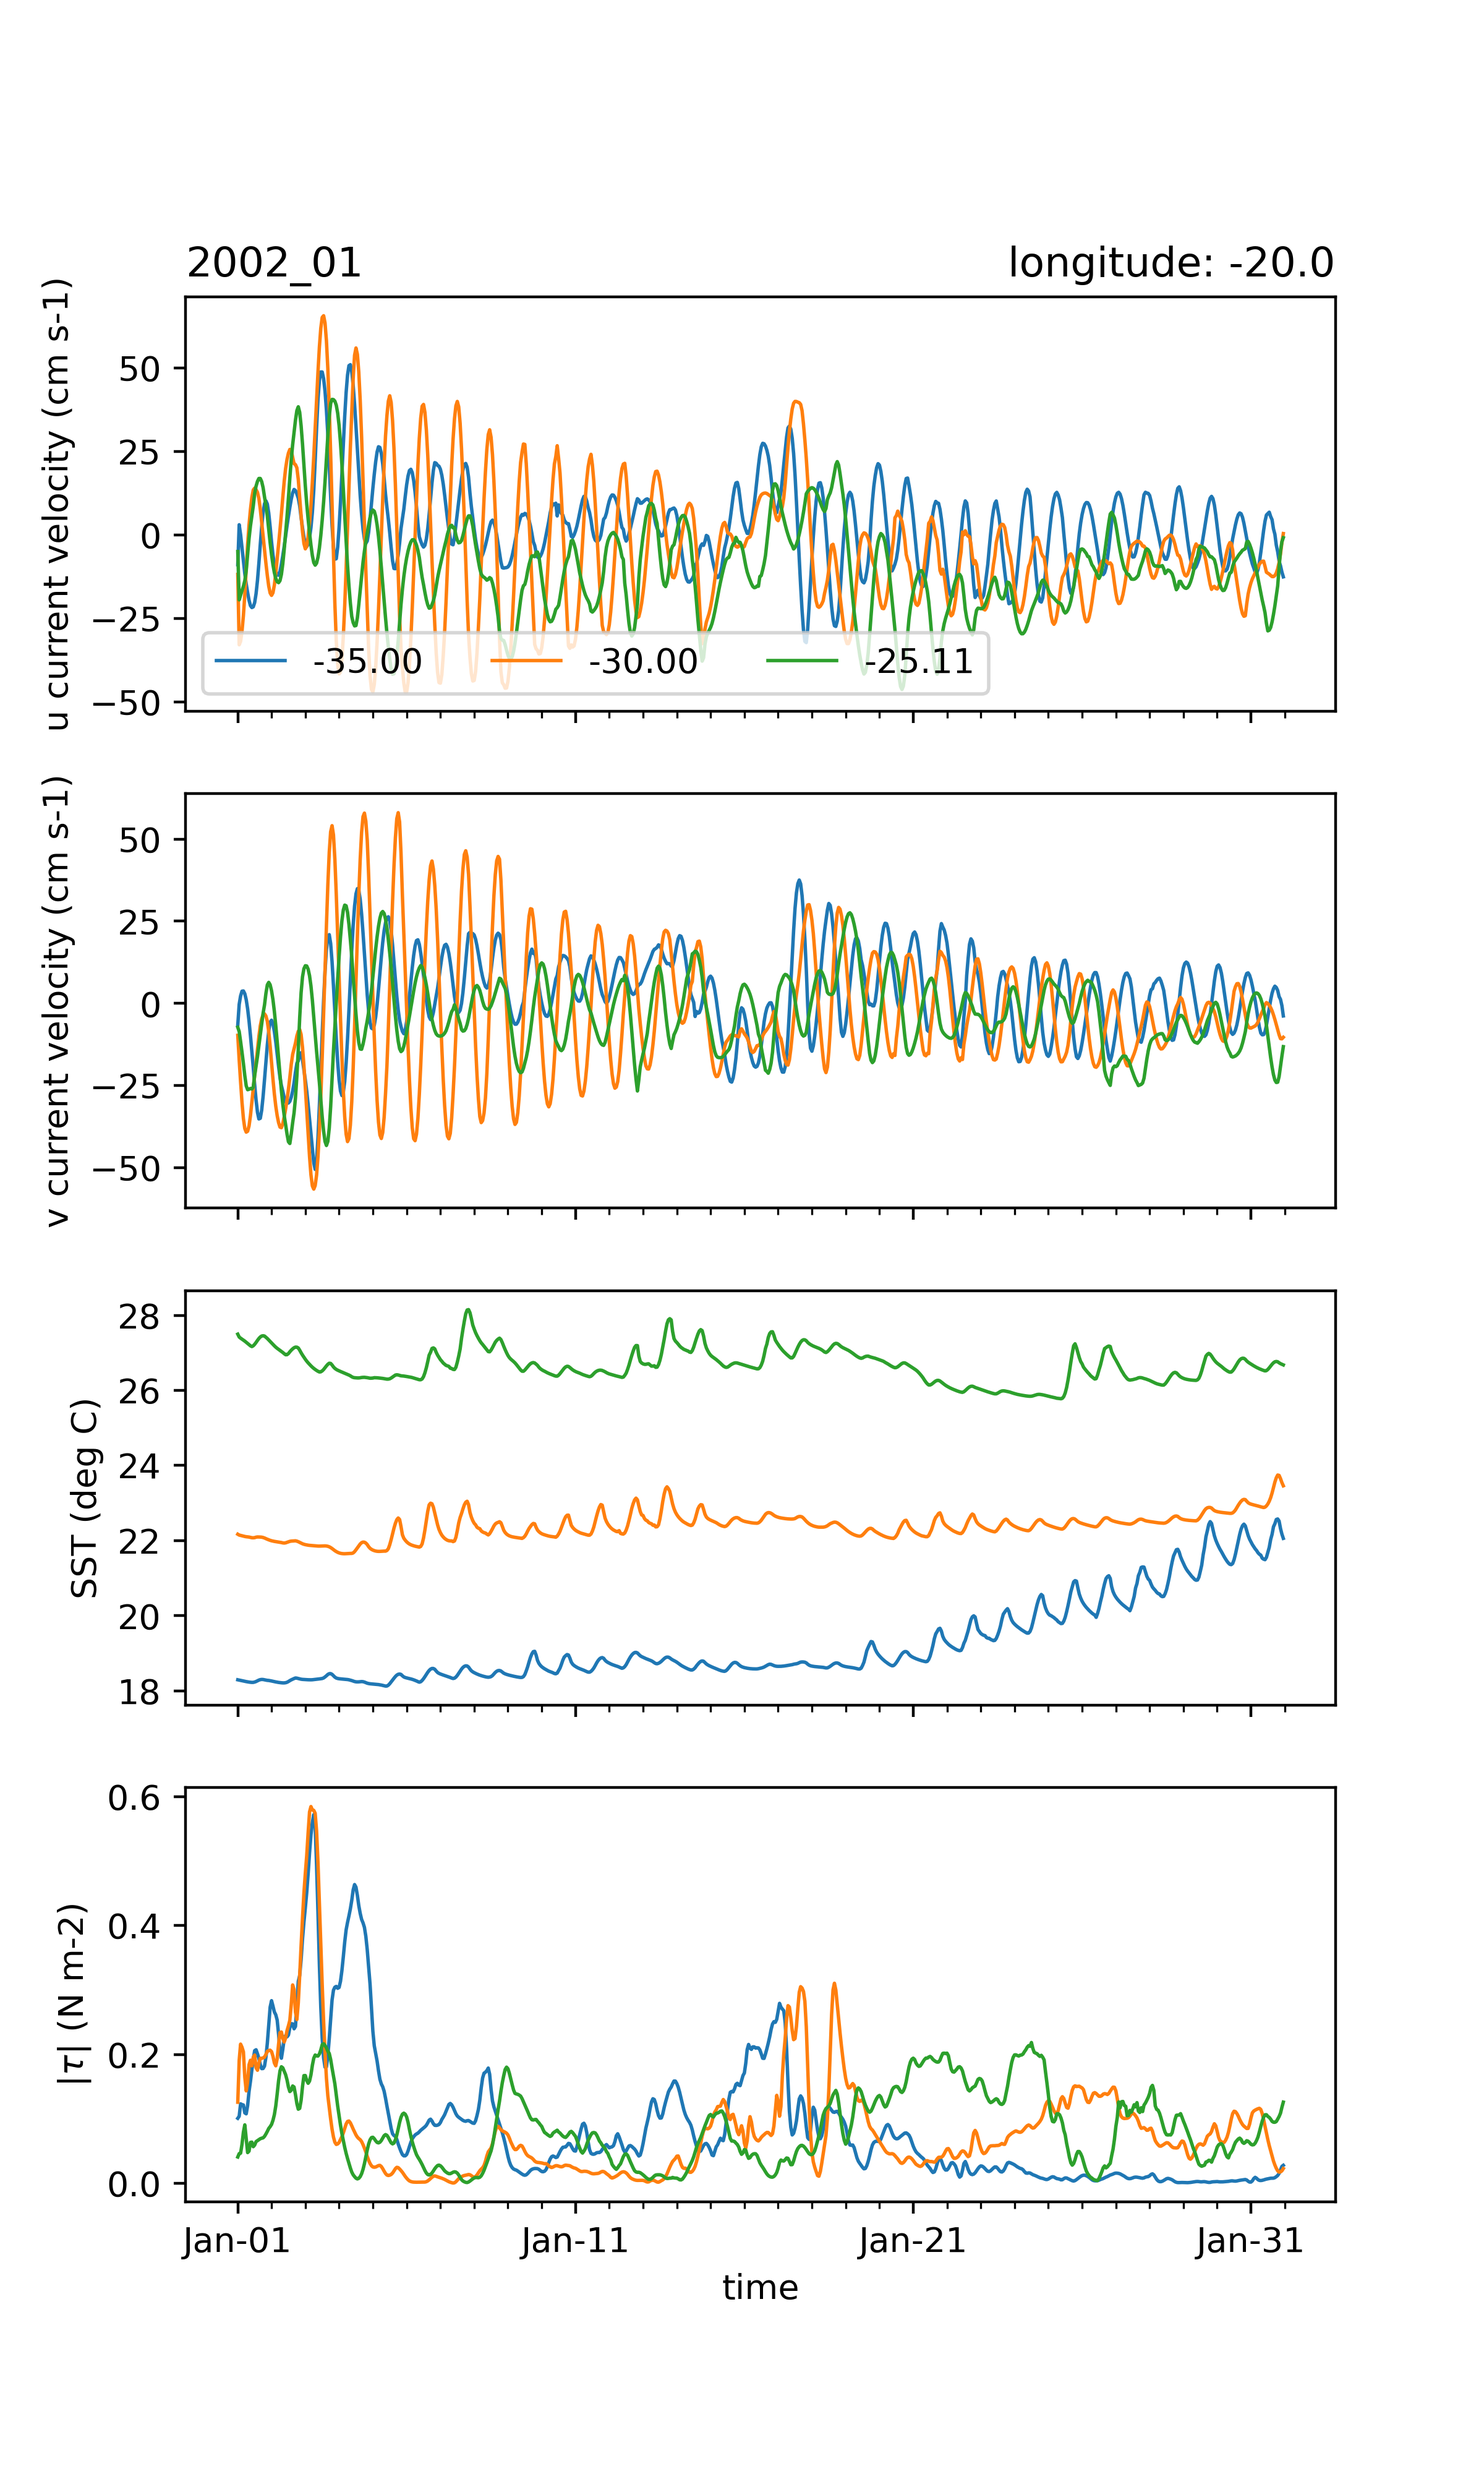
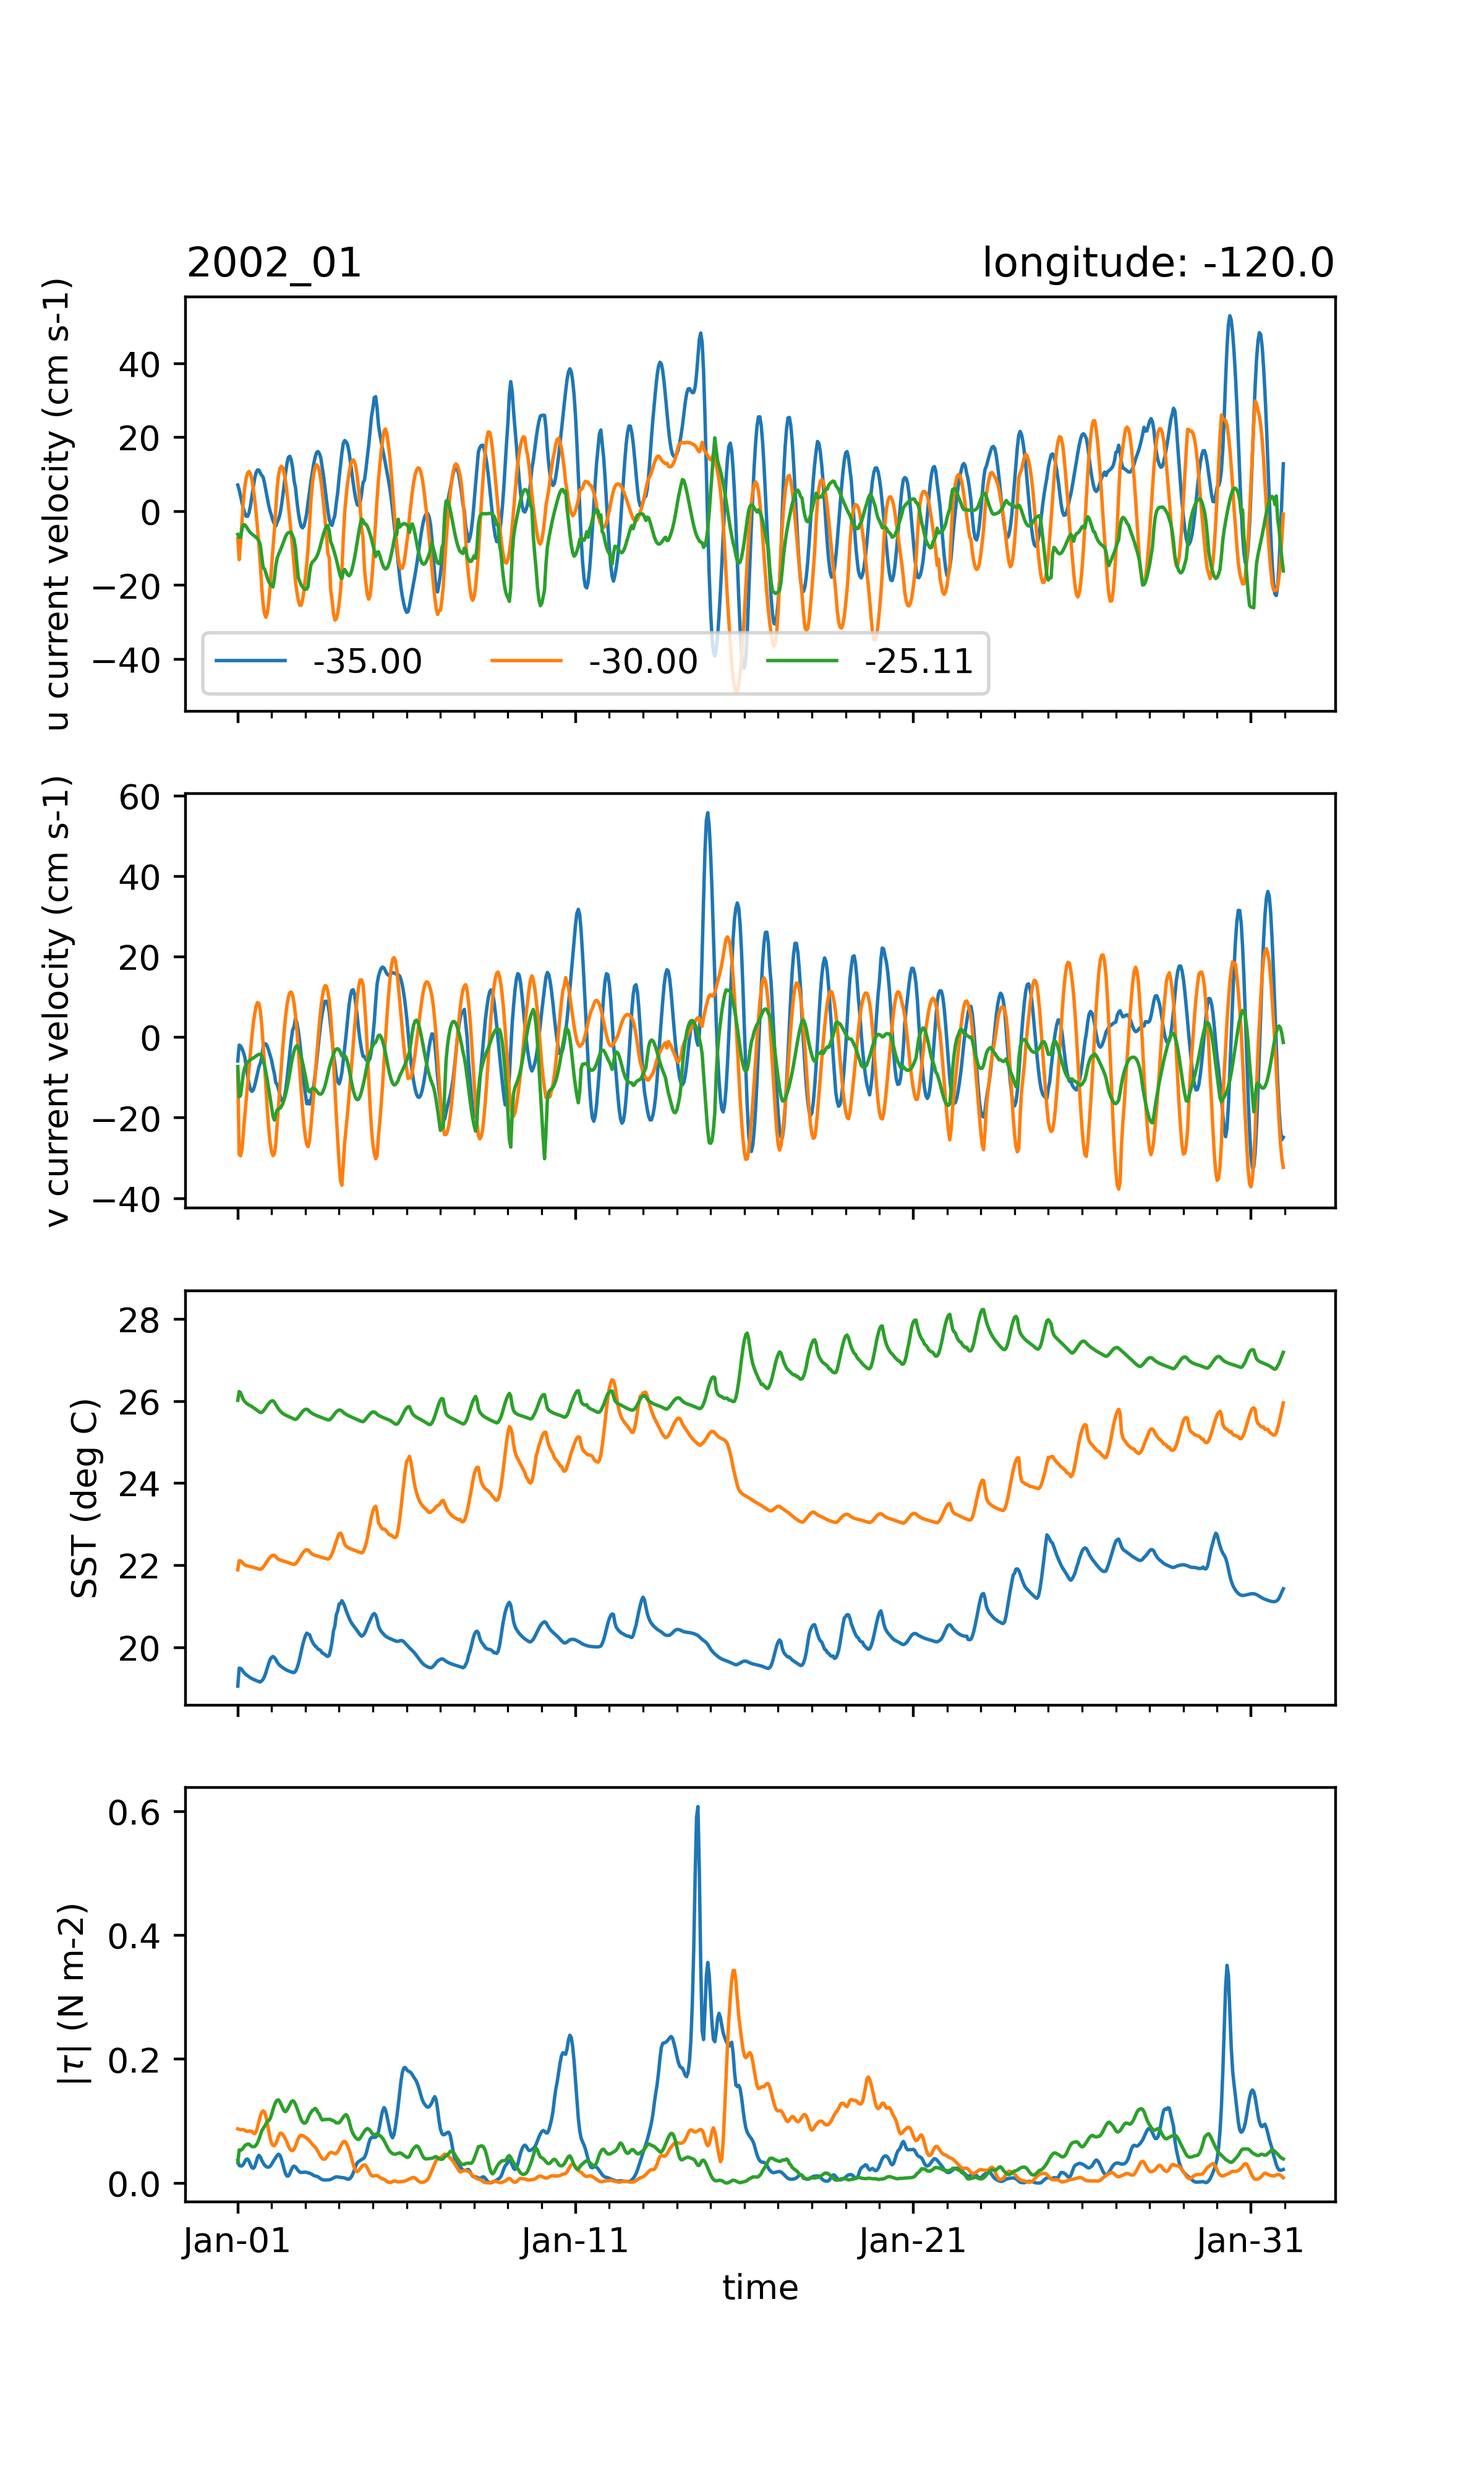
Adds/updates some more gridpoint timeseries.

diff --git a/diurnal_cycle/analysis/current_wind_check_point_month_timeseries.py b/diurnal_cycle/analysis/current_wind_check_point_month_timeseries.py
@@ -50,8 +50,8 @@ def load_ds(plot_date):
            .sel(st_ocean=0.5, 
                 yu_ocean=[-35.0, -30.0,-25.0], 
                 yt_ocean=[-35.0, -30.0,-25.0], 
-                xu_ocean=-20.0,
-                xt_ocean=-20.0, 
+                xu_ocean=-120.0,
+                xt_ocean=-120.0, 
                 method='nearest').load()
     ds['time'] = ds.indexes['time'].to_datetimeindex()
 
